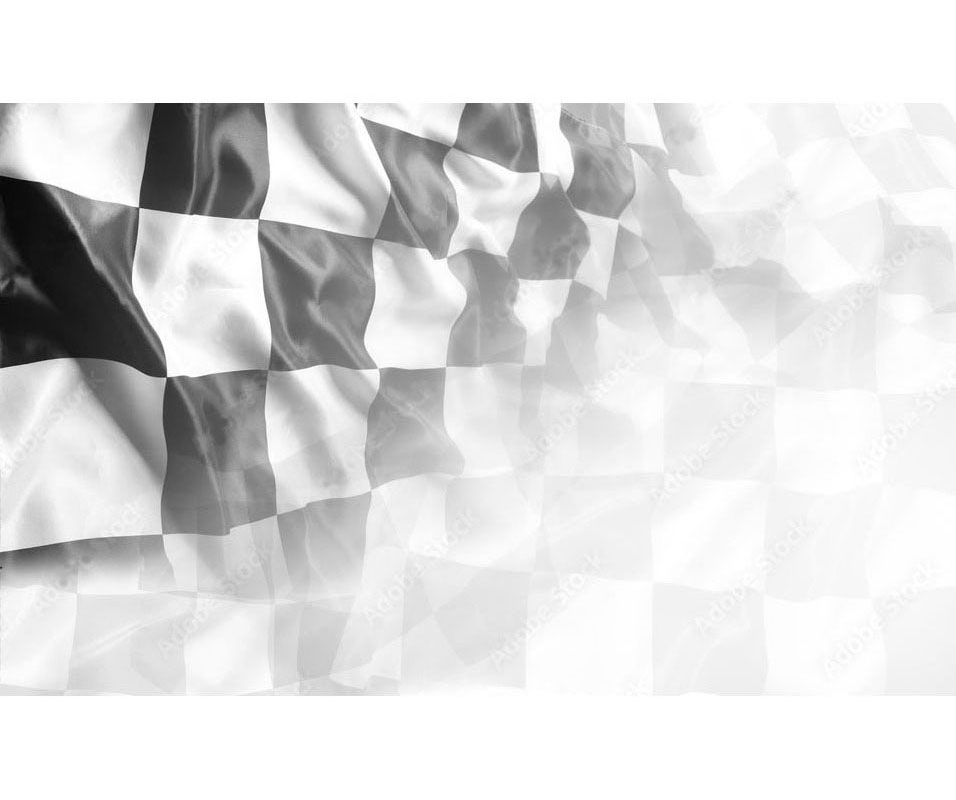
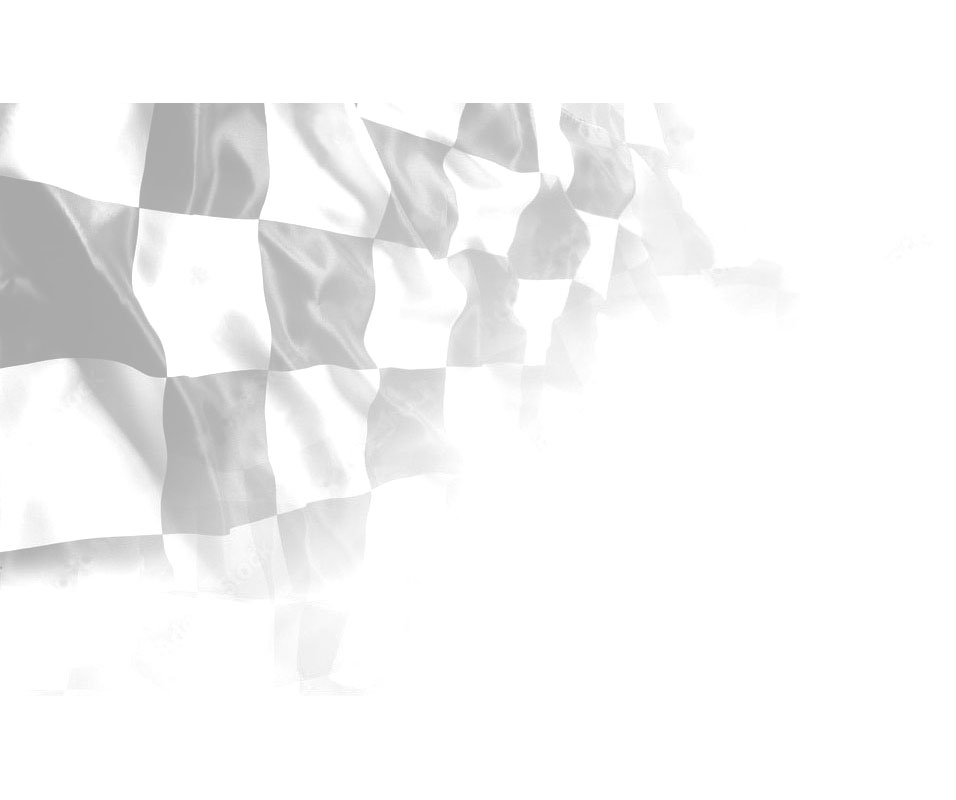
washed background image, resized bike image

diff --git a/index.html b/index.html
@@ -9,18 +9,20 @@
 
 <body>
 	<div id="main">
-	<header><h1>&#9940Airheads&#9940</h1></header>
+	<header><h1>⛔Airhead⛔</h1>
+	</header>
 	<nav>
 		<ul>
-		<li><a href="photos.html">My Bikes</a></li>
-		<li><a href="videos.html">Videos</a></li>
+		<li><a href="photos.html">About</a></li>
+		<li><a href="bike.html">Bike info</a></li>
 		<li><a href="articles.html">Tech Tips</a></li>
-			<li><a href="tools.html">Special Tools</a></li>
-			<li><a href="projects.html">Special Projects</a></li>
+		<li><a href="tools.html">Special Tools</a></li>
+	    <li><a href="projects.html">Special Projects</a></li>
+		<li><a href="contact.html">Contact</a></li>
 		</ul></nav>
-	<article class="right"><img src="images/toastertank.jpg" alt="1973 R75/5"></article>
-	<article class="left"><p1>This is the place to learn about BMW&#174 motorcycles from 1969 to 1992. If you were wondering how to own one, how to fix one, or you have always wanted one, this is the site for you. Wir haben zusammen noch keine Schweine gehütet! </p1></article>
-	<aside class="left"><p1>other sites of interest</p1>
+	<article class="right"><img src="images/redbike2.jpg" alt="1973 R75/5"></article>
+	<article class="left1"><p1>This is the place to learn about BMW&#174 motorcycles from 1969 to 1992. If you were wondering how to own one, how to fix one, or you have always wanted one, this is the site for you. Wir haben zusammen noch keine Schweine gehütet! </p1></article>
+	<aside class="left"><p1>Other sites of interest</p1>
 		<ul>
 		<li><a href="https://www.bmridersclub.com/bmwmoa.htm">BMW MOA</a></li>
 		<li><a href="https://www.airheads.org/">Airhead Club</a></li>

diff --git a/main.css b/main.css
@@ -4,7 +4,8 @@
 body{
 	background: url("images/flag3.jpg") no-repeat;
 	background-repeat: no-repeat;
-    background-size: 100%;
+    background-size: cover;
+	
 }
 main{
 	width:900px;
@@ -14,6 +15,8 @@ main{
 }
 header{
 	height:100px;
+	color:hotpink;
+	
 	
 }
 header h1{
@@ -44,27 +47,40 @@ nav li{
 }
 
 .right{
-	width: 800px;
-	float:right;
-	margin-top:30px;
+	width: 200px;
+	float: right;
+	align-content: 10px;
+	margin-top: 30px;
 	margin-bottom: 30px;
+	padding-right: 600px;
 }
 .clearfix {
   overflow: auto;
 }
-.left{
+.left1{
 	width: 300px; 
 	float:left;
-	margin-left: 30px;
+	padding-left: 30px;
 	margin-top:30px;
 	font-family: gautreaux, sans-serif;
     font-weight: 700;
     font-style: normal;
 	font-size: 30px;
-	color:red;
+	color:cadetblue;
 	
 }
-
+.left{
+    padding-top: 30px;
+	width: 300px; 
+	clear: left;
+	margin-left: 30px;
+	border: dashed; 
+	font-family: gautreaux, sans-serif;
+    font-weight: 700;
+    font-style: normal;
+	font-size: 30px;
+	color: red;
+}
 
 footer{
 	font-size: 30px;
